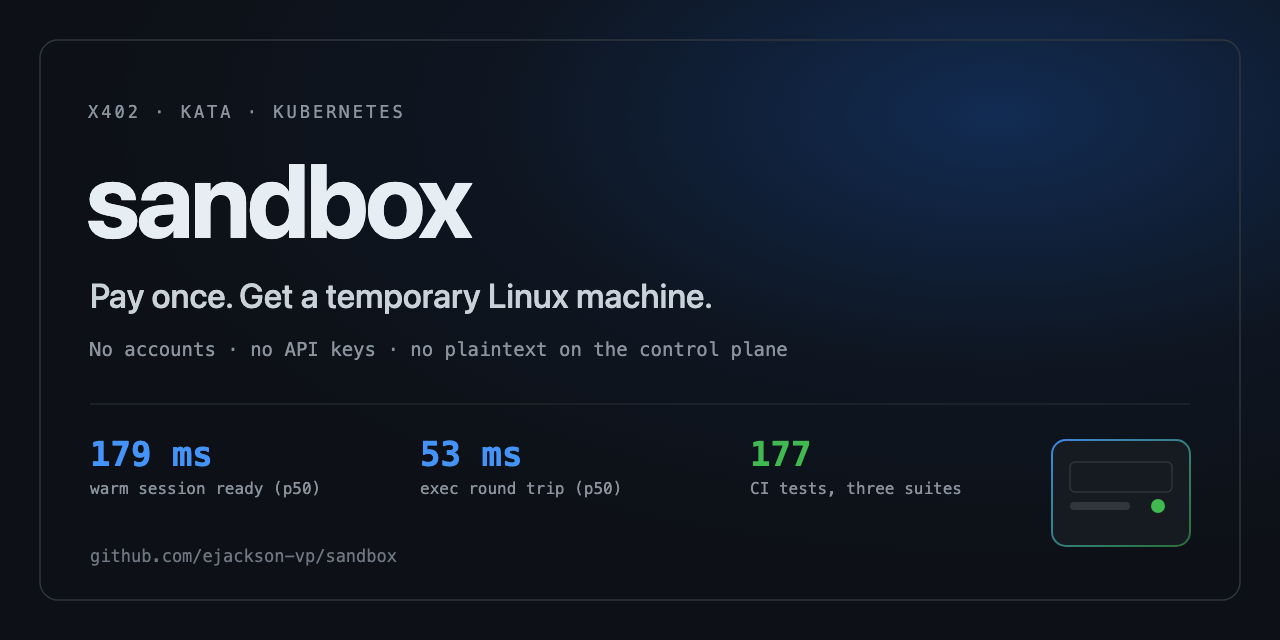
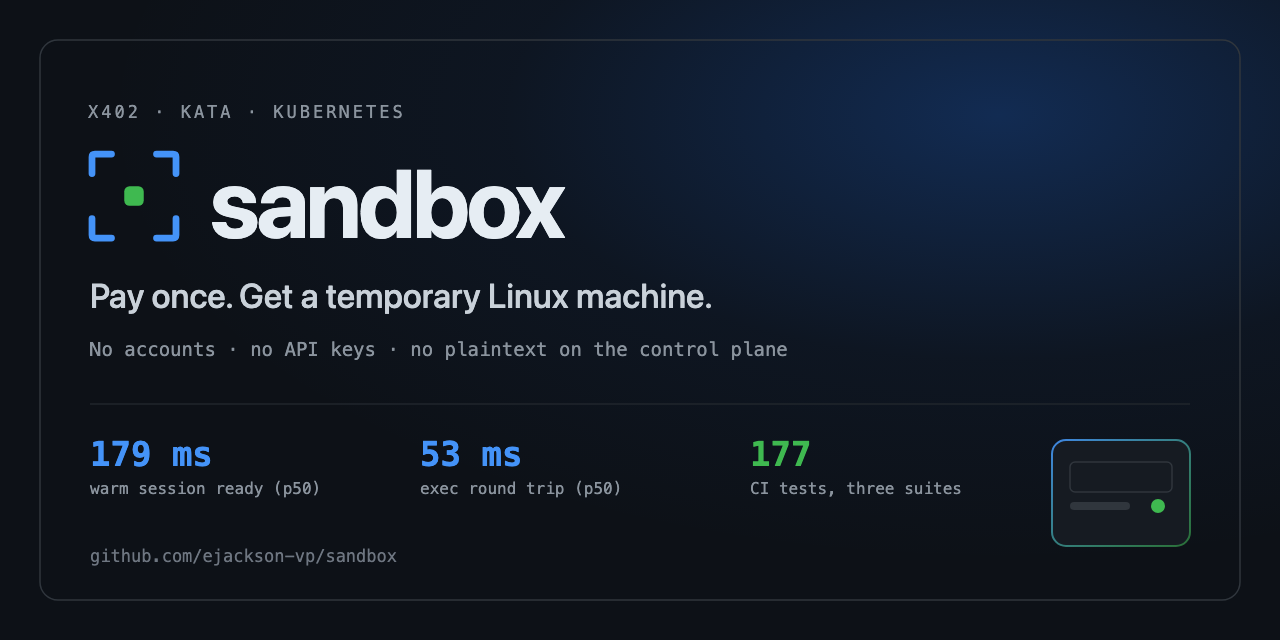
readme: add the mark, a demo recording, and cut the page in half
- logo and mark, with light and dark palettes, at the top of the README and
  in the social preview
- record the demo session with VHS and fold it into a details block
- drop trust boundary, design decisions, repository layout, the testing
  table and the licence section; link to the docs instead
- rewrite the motivation in plainer terms

Changed region(s): [[0.0625, 0.2188, 0.4375, 0.375]]

diff --git a/README.md b/README.md
@@ -1,17 +1,16 @@
-# sandbox
+<p align="center">
+  <img src="docs/assets/logo.svg" width="300" alt="sandbox">
+</p>
 
-[![ci](https://github.com/ejackson-vp/sandbox/actions/workflows/ci.yml/badge.svg)](https://github.com/ejackson-vp/sandbox/actions/workflows/ci.yml)
-[![release](https://github.com/ejackson-vp/sandbox/actions/workflows/release.yml/badge.svg)](https://github.com/ejackson-vp/sandbox/actions/workflows/release.yml)
-[![license: MIT](https://img.shields.io/badge/license-MIT-blue.svg)](LICENSE)
-[![go: 1.26](https://img.shields.io/github/go-mod/go-version/ejackson-vp/sandbox?filename=guest/go.mod&logo=go)](guest/go.mod)
-[![node: >= 24](https://img.shields.io/badge/node-%3E%3D24-5FA04E?logo=nodedotjs)](package.json)
+<p align="center">
+  <a href="https://github.com/ejackson-vp/sandbox/actions/workflows/ci.yml"><img src="https://github.com/ejackson-vp/sandbox/actions/workflows/ci.yml/badge.svg" alt="ci"></a>
+  <a href="https://github.com/ejackson-vp/sandbox/actions/workflows/release.yml"><img src="https://github.com/ejackson-vp/sandbox/actions/workflows/release.yml/badge.svg" alt="release"></a>
+  <a href="LICENSE"><img src="https://img.shields.io/badge/license-MIT-blue.svg" alt="MIT"></a>
+  <a href="guest/go.mod"><img src="https://img.shields.io/github/go-mod/go-version/ejackson-vp/sandbox?filename=guest/go.mod&logo=go" alt="go 1.26"></a>
+</p>
 
 **Pay once with x402, get a temporary Linux machine.** No account, no API key, no
-signup — and the control plane never sees the commands or files you run.
-
-```text
-Pay -> Launch sandbox -> Execute repeatedly -> Destroy
-```
+signup — and the control plane never sees what you run.
 
 ![Architecture: client, x402 API, controller, relay, Kata microVM, egress proxy](docs/assets/architecture.svg)
 
@@ -19,28 +18,15 @@ Pay -> Launch sandbox -> Execute repeatedly -> Destroy
 | :---: | :---: | :---: | :---: |
 | **179 ms** p50 | **53 ms** p50 | **~182 MiB** | **177 CI tests** |
 
-Kata on two nodes with a 20-guest warm pool; p50 unless stated. The 177 are
-unit, property and integration tests; the packet-level isolation suite runs
-against a live cluster. [Method, percentiles and caveats](docs/performance-cluster.md).
+Kata on two nodes with a 20-guest warm pool; p50 unless stated.
+[Method and caveats](docs/performance-cluster.md).
 
-## Why this exists
+## Why
 
-Running someone else's code used to mean a container and a prayer. Agents made it
-the default case: every tool call is untrusted code. Existing sandboxes require an
-account and hand the operator plaintext commands, so the operator can read
-everything you run.
-
-This takes the opposite position:
-
-- **Pay per session, not per account.** x402 settles at the HTTP layer, so there
-  is nothing to sign up for and nothing to revoke.
-- **Seal payloads to the guest, not to the provider.** Commands and files are
-  encrypted client-side; the API, controller and relay only route ciphertext.
-- **Make the sandbox unreachable, not merely firewalled.** No ingress rules at
-  all; the guest dials out.
-
-It is a reference implementation, not a hosted service. The interesting part is
-the trust boundary and the lease semantics, not the API surface.
+Agent tool calls are untrusted code, and most sandboxes require an account and
+hand the operator your plaintext commands. This does the opposite: the payment
+is the identity, and commands and files are sealed client-side to the guest, so
+the API, controller and relay only route ciphertext.
 
 Good fits: agent tool execution, CI and build isolation, code-runner backends,
 one-off data jobs that should not touch your laptop.
@@ -58,9 +44,14 @@ make down
 Local clusters use `runc`, not microVMs. The demo exercises the same API, relay
 and guest as a real deployment.
 
-### Verify without a cluster
+<details>
+<summary>What the demo looks like</summary>
 
-Most of the system is testable in under a minute and without Kubernetes:
+![Terminal recording: pay, create, exec, upload, run, download, destroy](docs/assets/demo.gif)
+
+</details>
+
+Without a cluster, most of the system is testable in under a minute:
 
 ```bash
 npm ci
@@ -68,65 +59,50 @@ make verify         # typecheck, structure lint, unit + property tests
 make test           # adds integration tests against the real guest binary
 ```
 
-Cluster-backed suites are explicit: `make security-test` (packet-level isolation)
-and `make demo-portability` (checkpoint moves between nodes).
+`make security-test` runs the packet-level isolation suite against a live cluster.
 
-## How a session works
+## How it works
 
 ```mermaid
 sequenceDiagram
     autonumber
     participant C as Client
-    participant A as API server
+    participant A as API
     participant K as Controller / relay
     participant G as Guest microVM
 
     C->>A: POST /v1/sessions
     A-->>C: 402 + price
     C->>A: signed payment
-    A->>K: entitlement (capability derived from payment key)
-    K->>G: provision pinned pod, start guest
-    G->>K: outbound WebSocket + signed key binding
+    A->>K: entitlement
+    K->>G: provision pod, start guest
+    G->>K: outbound WebSocket + key binding
     K-->>C: key binding, relayed
-    C->>A: sealed command (end-to-end encrypted)
+    C->>A: sealed command
     A->>K: opaque envelope
     K->>G: opaque frame
-    G-->>K: sealed result
-    K-->>A: opaque result
-    A-->>C: sealed result
+    G-->>C: sealed result, relayed
 ```
 
-The lease starts at `READY` and is immutable. The guest watchdog, the controller
-deadline and `activeDeadlineSeconds` enforce it independently, so no single bug
-extends a session. On destroy or expiry the pod is deleted, relay state is
-purged, and the memory-backed workspace disappears with it.
+The lease starts at `READY` and is immutable: the guest watchdog, the controller
+deadline and `activeDeadlineSeconds` enforce it independently. On destroy or
+expiry the pod is deleted and the memory-backed workspace disappears with it.
 
 More: [architecture](docs/architecture.md) · [sessions](docs/sessions.md) ·
-[warm pool](docs/warm-pool.md) · [lifecycle](docs/lifecycle.md).
+[warm pool](docs/warm-pool.md).
 
-## What you get
-
-### CLI
+## Interfaces
 
 ```bash
 sandbox create --tier standard                 # 5 minutes, 1 vCPU, 1 GiB
-sandbox create --duration 15m --cpu 2 --memory 2Gi
 sandbox exec <id> -- python3 --version
-sandbox exec <id> -- bash -c "echo hello > /workspace/hello.txt"
-sandbox upload   <id> ./example.py /workspace/example.py
+sandbox upload <id> ./src /workspace/src       # directory -> tar
 sandbox download <id> /workspace/out.txt ./out.txt
-sandbox upload   <id> ./src /workspace/src        # directory -> tar
-sandbox download <id> /workspace/src ./src --extract
-sandbox ls <id> /workspace --recursive
-sandbox status <id>
 sandbox destroy <id>
 ```
 
 Tiers: `short` (60 s), `standard` (300 s), `extended` (900 s), `long` (1800 s),
-plus `--duration`/`--cpu`/`--memory`/`--disk` within platform caps.
-Details: [docs/cli.md](docs/cli.md).
-
-### SDK
+plus `--duration`, `--cpu`, `--memory`, `--disk` within platform caps.
 
 ```ts
 import { SandboxClient, FileSessionStore } from "@x402s/sdk";
@@ -134,151 +110,53 @@ import { SandboxClient, FileSessionStore } from "@x402s/sdk";
 const client = new SandboxClient({ apiUrl, paymentMode: "mock", store: new FileSessionStore() });
 const session = await client.createSession({ tier: "standard" });
 await client.waitForReady(session);
-await client.exec(session, { command: ["python3", "--version"] });
-await client.putFile(session, { path: "/workspace/app.py", data: Buffer.from("print(1)") });
-const result = await client.exec(session, { command: ["python3", "/workspace/app.py"] });
-process.stdout.write(result.stdout);
+const result = await client.exec(session, { command: ["python3", "--version"] });
 await client.destroy(session);
 ```
 
-`@x402s/sdk` is a workspace package and is not published to npm yet; build it
-from source (`npm ci && npm run build`). Full examples:
-[examples/](examples/) · [docs/cli.md](docs/cli.md).
-
-### API
+`@x402s/sdk` builds from source (`npm ci && npm run build`), not npm.
 
 ```http
-POST   /v1/sessions                        # x402-protected; body has no plaintext
-GET    /v1/sessions/{id}                   # state, lease, limits
-POST   /v1/sessions/{id}/operations        # { requestId, envelope }; op is inside
+POST   /v1/sessions                            # x402-protected; body has no plaintext
+POST   /v1/sessions/{id}/operations            # { requestId, envelope }; op is inside
 GET    /v1/sessions/{id}/operations?request=…  # encrypted get/list/stat
-GET    /v1/sessions/{id}/requests/{rid}    # reconnect / fetch a result
-DELETE /v1/sessions/{id}/requests/{rid}    # cancel a running command
-DELETE /v1/sessions/{id}                   # destroy now
-GET    /v1/pricing
+DELETE /v1/sessions/{id}                       # destroy now
 ```
 
 All session endpoints require `X-Sandbox-Capability`. Reference:
-[docs/api.md](docs/api.md).
-
-## Trust boundary
-
-| Property | Status |
-| --- | --- |
-| No accounts, no API keys | enforced |
-| One settled payment → one session; replay rejected | enforced, tested |
-| API accepts only ciphertext | enforced, tested |
-| Control-plane logs and storage free of plaintext | enforced, tested |
-| Per-session key exchange; client verifies the binding | enforced |
-| No inbound network path to a sandbox | enforced, packet-tested |
-| Egress only through the proxy; private destinations denied | enforced, tested |
-| Separate kernel per sandbox | **only with Kata** (`deploy/kata`, `deploy/talos`) |
-| Hardware-rooted attestation | **not implemented** |
-| Protection from a malicious cluster operator | **no** |
-
-The key-binding signature proves the guest holds the key you are sealing to. It
-does not prove which software the guest is running, because nothing here is
-measured by hardware. If the operator is your adversary, this design does not
-help you — run it somewhere you trust. Full matrix:
-[docs/security-guarantees.md](docs/security-guarantees.md) ·
-[threat model](docs/threat-model.md).
+[docs/api.md](docs/api.md) · [docs/cli.md](docs/cli.md).
 
 ## Performance
 
-| Metric | n | p50 | p95 | p99 |
-| --- | ---: | ---: | ---: | ---: |
-| Warm server ready (pool = 20) | 30 | **179 ms** | 340 ms | 398 ms |
-| Warm client ready | 30 | 665 ms | 948 ms | 956 ms |
-| Cold server ready (image cached) | 10 | **2.69 s** | 3.33 s | — |
-| Existing-session exec | 50 | **53 ms** | 108 ms | 216 ms |
-| Destroy | 30 | 181 ms | 253 ms | 260 ms |
+| Metric | n | p50 | p95 |
+| --- | ---: | ---: | ---: |
+| Warm server ready (pool = 20) | 30 | **179 ms** | 340 ms |
+| Warm client ready | 30 | 665 ms | 948 ms |
+| Existing-session exec | 50 | **53 ms** | 108 ms |
+| Cold server ready (image cached) | 10 | 2.69 s | 3.33 s |
 
-60 concurrent held sessions and 25/25 burst creates completed with zero failures.
-The burst bottleneck is the create queue at ~1.3 creates/s, not VM boot. Cold
-start assumes the image is already on the node and is not comparable to a
-registry pull.
-
-Sources: [cluster numbers](docs/performance-cluster.md) ·
-[methodology](docs/benchmark-methodology.md) ·
-[engineering notes](docs/engineering-notes.md). The harness and raw run data
-live in [sandbox-bench](https://github.com/ejackson-vp/sandbox-bench).
-
-## Design decisions
-
-| Decision | Why | Trade-off |
-| --- | --- | --- |
-| Capability derived from the payment | Retries recover the same session with no account table | Payment intent is durable forever |
-| Ciphertext-only control plane | The operator cannot read commands or files | No server-side auditing |
-| Guest-initiated relay | The sandbox is unreachable by construction | No SSH; all traffic goes through one path |
-| SQLite, single writer, outbox | Atomic entitlement without a distributed transaction | One controller replica |
-| Kata as the isolation boundary | Separate kernel per tenant | Needs Kata-capable nodes |
-| Lease enforced in three places | No single bug extends a lease | Deadline logic is duplicated |
-
-Each has a record under [docs/adr/](docs/adr/) with the alternatives considered.
-
-## Repository layout
-
-```text
-api/                  x402 API server + mock facilitator
-sdk/                  @x402s/sdk client (payment, key binding, exec, files)
-cli/                  thin CLI over the SDK
-controller/           reconciler, SQLite store, relay, egress proxy
-guest/                Go session supervisor + network probe
-shared/               protocol, sealed-box crypto, verification, tiers
-deploy/kind/          kind + Cilium setup (local dev)
-deploy/kubernetes/    base manifests (runc, dev)
-deploy/kata/          microVM overlay (any Kata-enabled cluster)
-deploy/talos/         real-cluster overlay (Kata + published images)
-examples/             runnable SDK and workload examples
-scripts/              demos, asset rendering, dev secrets
-tests/                unit, property, integration, security
-docs/                 architecture, API, operations, ADRs, guarantees
-```
-
-Images are published on every tag:
-
-```bash
-docker pull ghcr.io/ejackson-vp/sandbox-control:0.1.15
-docker pull ghcr.io/ejackson-vp/sandbox-guest:0.1.15
-```
-
-## Testing
-
-| Suite | What it runs | Needs |
-| --- | --- | --- |
-| `make verify` | 129 unit + property tests | nothing |
-| `npm run test:integration` | 48 tests against the real guest binary | Go toolchain |
-| `make security-test` | packet-level isolation, warm pool, workload compatibility | a live cluster (`make up`) |
-
-Unit and property tests cover the lease state machine, payment replay, capability
-derivation and the sealed-box protocol. Integration tests run the real guest
-binary. Security tests inspect packets on a live cluster.
+60 concurrent held sessions and 25/25 burst creates completed with zero failures;
+the bottleneck is the create queue at ~1.3/s, not VM boot. Sources:
+[cluster numbers](docs/performance-cluster.md) ·
+[engineering notes](docs/engineering-notes.md) ·
+[harness](https://github.com/ejackson-vp/sandbox-bench).
 
 ## Documentation
 
+- **New here** — [quickstart](docs/quickstart.md) · [architecture](docs/architecture.md)
+- **Security reviewer** — [guarantees](docs/security-guarantees.md) · [threat model](docs/threat-model.md) · [networking](docs/networking.md)
+- **Operator** — [Talos deploy](deploy/talos/README.md) · [capacity model](docs/capacity-model.md) · [production readiness](docs/production-readiness.md)
+- **Contributor** — [ADRs](docs/adr/) · [CONTRIBUTING.md](CONTRIBUTING.md)
+
 Full index: [docs/README.md](docs/README.md).
 
-- **New here** — [quickstart](docs/quickstart.md) · [architecture](docs/architecture.md) · [performance](docs/performance-cluster.md)
-- **Security reviewer** — [guarantees](docs/security-guarantees.md) · [threat model](docs/threat-model.md) · [networking](docs/networking.md) · [transfer security](docs/transfer-security.md)
-- **Operator** — [Talos deploy](deploy/talos/README.md) · [capacity model](docs/capacity-model.md) · [control-plane faults](docs/control-plane-faults.md) · [production readiness](docs/production-readiness.md)
-- **Contributor** — [architecture principles](docs/architecture-principles.md) · [ADRs](docs/adr/) · [CONTRIBUTING.md](CONTRIBUTING.md)
-
-## Status and roadmap
+## Status
 
 **Alpha.** A reference deployment, not a hosted service: payments are mock or
-testnet, and there is no hardware attestation. See
-[docs/production-readiness.md](docs/production-readiness.md) for the ordered
-list of what is missing, and [ROADMAP.md](ROADMAP.md) for what comes next.
+testnet, and there is no hardware attestation. What is missing, in order:
+[docs/production-readiness.md](docs/production-readiness.md). What comes next:
+[ROADMAP.md](ROADMAP.md).
 
 Non-goals: no coding agent, no GitHub integration, no persistent dev
 environments, no memory snapshots (filesystem checkpoints only), no GPUs, no
-accounts, no managed wallets, no mainnet payments, no enterprise features.
-
-## Contributing
-
-Read [CONTRIBUTING.md](CONTRIBUTING.md). Security invariants need a test, and
-modules stay under 650 lines.
-
-## Licence
-
-MIT — see [LICENSE](LICENSE).
+accounts, no managed wallets, no mainnet payments.

diff --git a/docs/assets/README.md b/docs/assets/README.md
@@ -4,19 +4,22 @@ Images referenced by the top-level README and the documentation index.
 
 | File | Used by | Regenerate with |
 | --- | --- | --- |
+| `logo.svg` | README header | edit by hand; render with Chrome/Inkscape to check |
+| `logo-mark.svg` | icon/favicon uses | edit by hand |
 | `architecture.svg` | README, `docs/architecture.md` | edit by hand; render with Chrome/Inkscape to check |
 | `social-preview.png` | GitHub repository settings (social preview) | `make assets` |
-| `demo.gif` | README (optional) | `make demo-gif` (needs a live cluster + [VHS](https://github.com/charmbracelet/vhs)) |
+| `demo.gif` | README | `make demo-gif` (needs a live cluster + [VHS](https://github.com/charmbracelet/vhs)) |
 
-`architecture.svg` carries its own light and dark palettes through a
-`prefers-color-scheme` media query, so one file works in both GitHub themes. If
-you edit the geometry, keep the two palettes in sync and re-render before
-committing:
+`logo.svg`, `logo-mark.svg` and `architecture.svg` carry their own light and dark
+palettes through a `prefers-color-scheme` media query, so one file works in both
+GitHub themes. If you edit the geometry, keep the two palettes in sync and
+re-render before committing:
 
 ```bash
 make assets          # renders social-preview.png from the SVG
 ```
 
-`demo.tape` is the source for the terminal recording. It drives `make
-demo-session` against a local kind cluster, so the GIF shows a real session
-rather than a mock-up. Do not commit a recording made against a modified script.
+`demo.tape` is the source for the terminal recording. It runs
+`scripts/demo-session.sh`, the same script `make demo-session` invokes, against a
+local kind cluster, so the GIF shows a real session rather than a mock-up. Keep
+the recording unedited: if a step changes, re-record rather than cutting frames.
